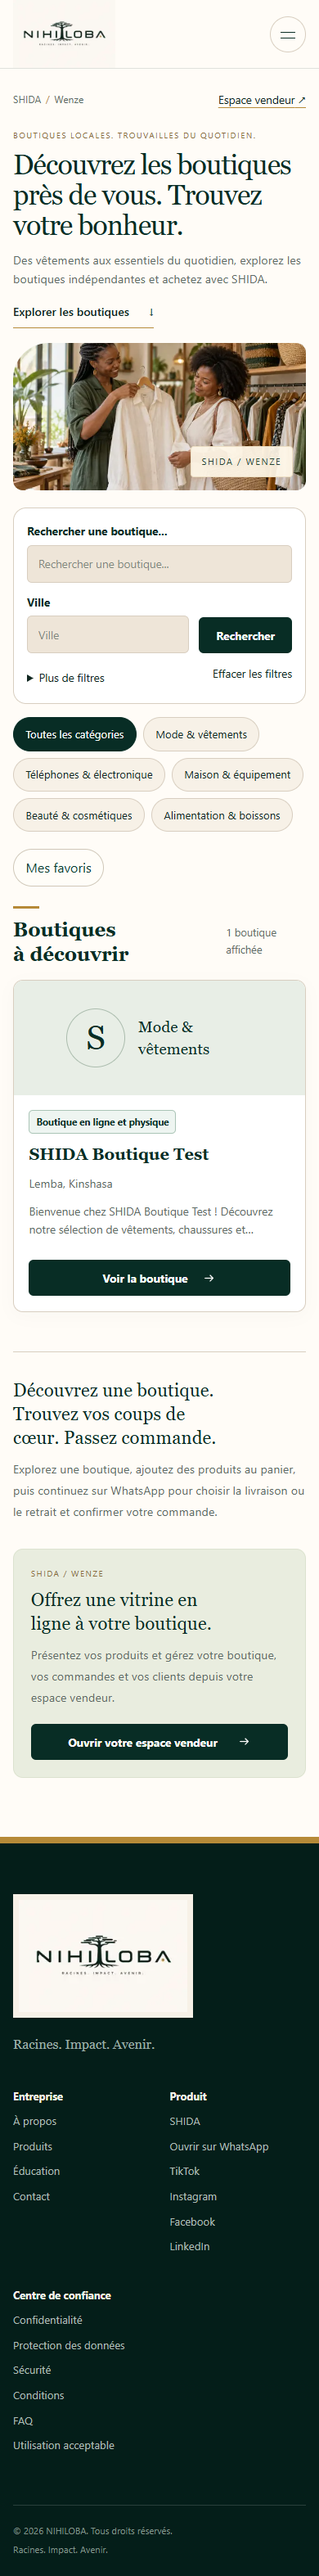
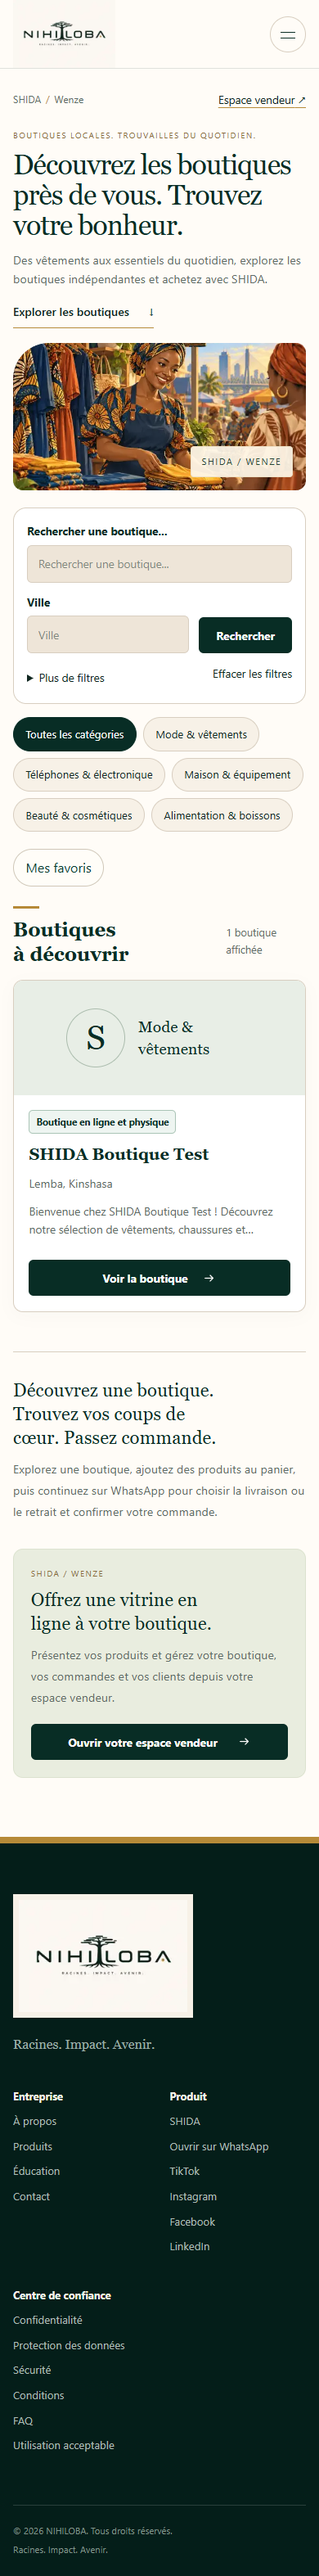
fix(wenze): refresh replacement image URL to avoid stale cache

Changed region(s): [[0.0308, 0.1246, 0.9846, 0.218]]

diff --git a/app/components/shida/wenze.tsx b/app/components/shida/wenze.tsx
@@ -35,7 +35,7 @@ export async function WenzeCollection({l,search}:{l:Locale;search:WenzeSearch}) 
  const categoryHref=(category:string)=>{const query=new URLSearchParams();for(const key of ["query","city","area"] as const)if(search[key])query.set(key,search[key]!);if(category)query.set("category",category);return marketplacePath(l,"/shida/wenze")+(query.size?`?${query}`:"");};
  return <WenzeBuyerProvider locale={l}><div className="wenze-public wzp-landing container">
   <div className="wzp-topline"><MarketplaceSectionBreadcrumb locale={l} current="Wenze"/><Link href={marketplacePath(l,"/shida/seller/wenze")}>{u.seller} ↗</Link></div>
-  <header className="wzp-landing-hero"><div><p className="wzp-landing-eyebrow">{v.eyebrow}</p><h1>{v.headline}</h1><p className="wzp-landing-intro">{v.intro}</p><a className="wzp-discover-link" href="#wenze-shops">{v.browse} <span aria-hidden="true">↓</span></a></div><div className="wzp-landing-art"><Image src="/images/wenze-shopping.webp" alt={v.image} fill sizes="(max-width: 700px) calc(100vw - 32px), (max-width: 1200px) 42vw, 500px" preload/><span>SHIDA / WENZE</span></div></header>
+  <header className="wzp-landing-hero"><div><p className="wzp-landing-eyebrow">{v.eyebrow}</p><h1>{v.headline}</h1><p className="wzp-landing-intro">{v.intro}</p><a className="wzp-discover-link" href="#wenze-shops">{v.browse} <span aria-hidden="true">↓</span></a></div><div className="wzp-landing-art"><Image src="/images/wenze-boutique-market.webp" alt={v.image} fill sizes="(max-width: 700px) calc(100vw - 32px), (max-width: 1200px) 42vw, 500px" preload/><span>SHIDA / WENZE</span></div></header>
   <form className="marketplace-filters wzp-filters"><div className="wzp-search"><label><span>{t.search}</span><input type="search" name="query" placeholder={t.search} defaultValue={search.query}/></label><label><span>{t.city}</span><input name="city" placeholder={t.city} defaultValue={search.city}/></label><button className="button button-primary">{t.apply}</button></div>
    <div className="wzp-filter-bottom"><details open={Boolean(search.area||search.category)||undefined}><summary>{u.filters}</summary><div className="marketplace-filter-grid"><label>{t.area}<input name="area" defaultValue={search.area}/></label><label>{t.category}<select name="category" defaultValue={search.category||""}><option value="">{t.all}</option>{Object.keys(categories).map(c=><option key={c} value={c}>{label(c,l)}</option>)}</select></label></div></details><Link href={marketplacePath(l,"/shida/wenze")}>{u.clear}</Link></div>
   </form>

diff --git a/docs/wenze-landing.md b/docs/wenze-landing.md
@@ -2,7 +2,7 @@
 
 The main Wenze directory now shares the Services visual language: a split introduction, a compact shopping illustration with an asymmetric rounded corner, existing search/category controls, and a seller invitation below the results. English and French copy are included. Mobile uses a short image and stacked content. Boutique detail pages and cart behavior are unchanged.
 
-Asset: `public/images/wenze-shopping.webp` (750 × 562, optimized WebP). Replaced with the user's supplied boutique illustration (`codex-clipboard-aabed925-0ed7-46d1-a58c-5ff4c110cc3e.png`). No image regeneration or compositional edits; the existing responsive frame crops it at display time. English and French alternative text describe the fabrics and customer interaction.
+Asset: `public/images/wenze-boutique-market.webp` (750 × 562, optimized WebP). Replaced with the user's supplied boutique illustration (`codex-clipboard-aabed925-0ed7-46d1-a58c-5ff4c110cc3e.png`). No image regeneration or compositional edits; the existing responsive frame crops it at display time. English and French alternative text describe the fabrics and customer interaction.
 
 Validation: production build, focused lint, English/French Chrome desktop and mobile checks for image loading, overflow, seller destination, search and category preservation. Evidence is saved under `docs/evidence/wenze-landing/`. Browser API calls are mocked; public directory reads use the configured catalog.
 
